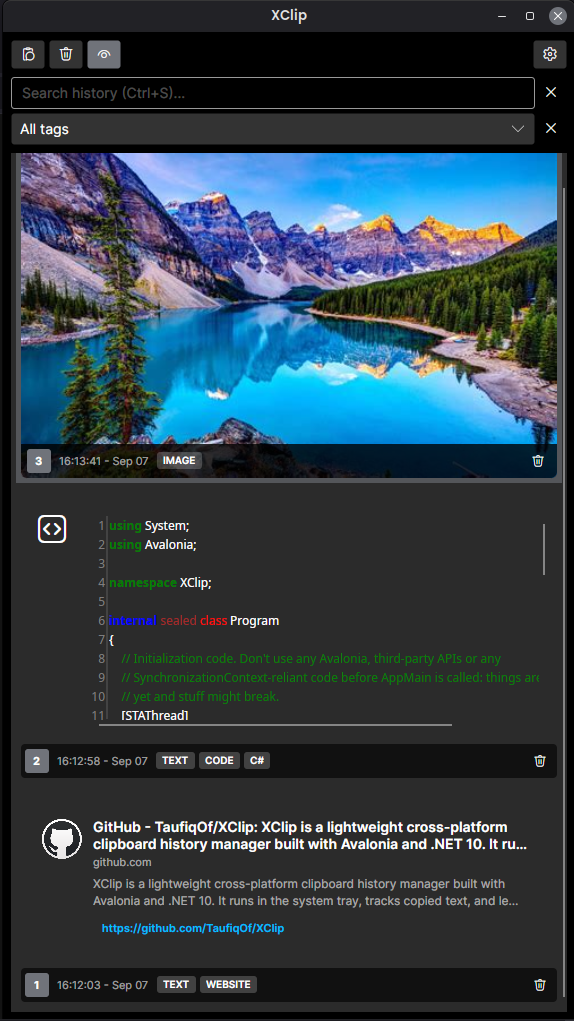
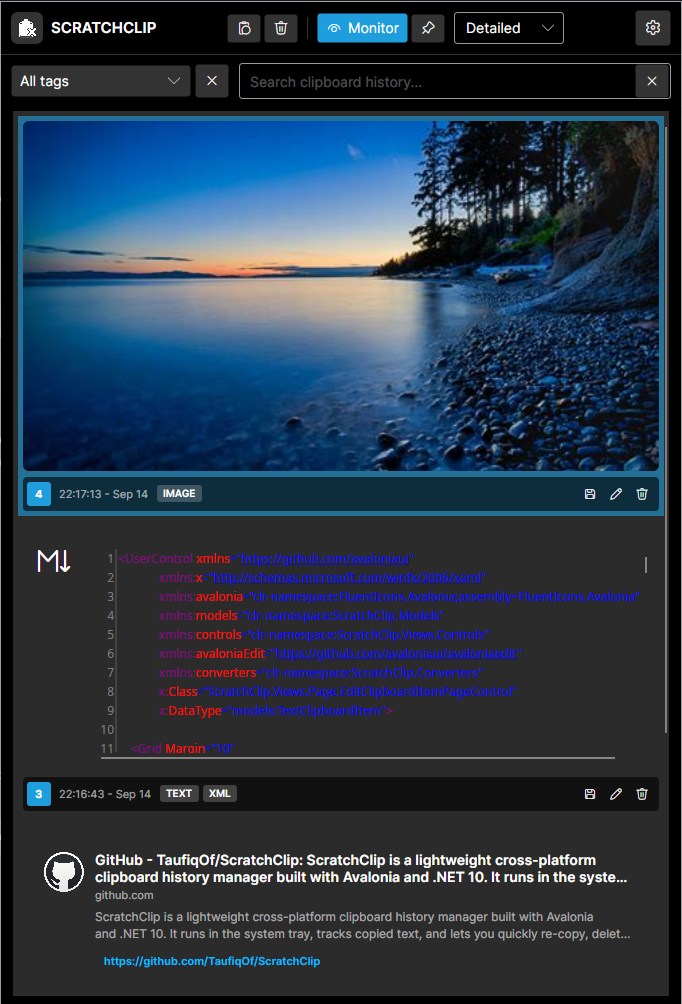
Update README with new security features and bump version to 0.0.27

diff --git a/readme.md b/readme.md
@@ -13,23 +13,48 @@ It runs silently in the system tray, tracks your recent copied items, and lets y
 - **Smart Type Recognition:** Automatically identifies and highlights links, code (programming languages, XML, JSON), and Markdown.
 - **Rich Link Metadata:** Displays previews for web links, including page titles, descriptions, and site icons.
 - **Filtering & Search:** Easily filter history by content type (text, image, link, code) or use **fuzzy search** to find entries quickly.
+- **Persistent History:** Saves clipboard history to an encrypted file for secure access across sessions.
+- **Session Password Protection:** Optionally assign a password to protect clipboard history using password-based encryption.
+- **Right-Click Context Menu:** Quickly copy and paste items from the system tray.
+- **Customizable View:** Choose between a full-featured view or a compact mode with a simple one-line menu view.
 - **Global Hotkey Support:** Show or hide the manager window from anywhere (Default: `Alt + Shift + K`).
 - **Quick Selection:** Press numbers `1–99` to pick visible clipboard entries instantly.
-- **Auto-Paste Integration:** Selecting or hitting `Enter` or `Double Clicking` copies the chosen item and automatically pastes it into your previously active application.
+- **Auto-Paste Integration:** Selecting, pressing `Enter`, or double-clicking copies the chosen item and automatically pastes it into your previously active application.
 - **Tray Management:** Minimizes to the system tray with a right-click menu, dynamic tray icon adaptation for light/dark themes, and startup toggles.
 - **Compact View Mode:** Switch to a minimalistic view that shows only the most recent clipboard entries for quick access.
-- **Detects Password Fields:** Automatically detects password and hides the text.
+- **Password Field Detection:** Automatically detects password fields and hides the text.
+- **Edit & Delete:** Edit or delete clipboard entries directly from the manager.
+- **File & Folder Support:** Supports copying and pasting files and folders, with previews for images and documents.
+
+## 🔐 Security
+
+- **AES-256-GCM Encryption:** Protects clipboard history with confidentiality and tamper detection.
+- **PBKDF2-HMAC-SHA256:** Uses 600,000 iterations for password-based key derivation to increase resistance to brute-force attacks.
+- **Random Per-File Salt & Nonce:** Each encrypted file uses cryptographically random values for key derivation and encryption.
+- **OS Keyring Integration:** Securely stores the passwordless encryption secret in the operating system's keyring.
+- **Password Protection:** User passwords are never stored directly; only a salted PBKDF2 password verifier is stored.
+- **Session Authentication:** When password protection is enabled, the user's password is required to access the encrypted history.
+- **Memory-Only Session Password:** The authenticated password is retained only for the current application session and cleared when the session is locked or logged out.
+- **Tamper Detection:** AES-GCM authentication detects modification or corruption of the encrypted history file.
+- **Device-Bound Passwordless Mode:** When no user password is configured, the encryption secret is stored in the OS keyring, preventing the encrypted history from being decrypted using the file alone.
+
+> **Security Disclaimer:** No security system can guarantee absolute protection. ScratchClip relies on the security of the underlying operating system, .NET runtime, cryptographic libraries, and OS keyring. If an attacker has full control of the running system or the user's account, clipboard data may potentially be accessible while ScratchClip is running or unlocked.
+
 ---
 
 ## 📸 Screenshots
 
-|            Main Interface             |            Light Theme             |
-|:-------------------------------------:|:----------------------------------:|
+|               Main Interface                |            Light Theme             |
+|:-------------------------------------------:|:----------------------------------:|
 | ![ScratchClip main window](Docs/dark-1.png) | ![ScratchClip light theme](Docs/light-1.png) |
 
-|              Compact View               |       Storage(Files and Folders)       |
-|:---------------------------------------:|:--------------------------------------:|
-| ![ScratchClip link preview](Docs/compact.png) | ![ScratchClip light theme](Docs/storage.png) |
+|                 Compact View                 |                  Menu View                  |
+|:--------------------------------------------:|:--------------------------------------------:|
+| ![ScratchClip link preview](Docs/dark-2.png) | ![ScratchClip menu view](Docs/dark-3.png) |
+
+|                     Edit                     |                  Settings                   |
+|:--------------------------------------------:|:-------------------------------------------:|
+| ![ScratchClip edit](Docs/dark-5.png) | ![ScratchClip settings](Docs/dark-4.png) |
 
 ---
 
@@ -71,3 +96,16 @@ Clone the repository and run the application from the root directory:
 cd ScratchClip
 dotnet restore
 dotnet run
+```
+
+## ⚠ Disclaimer
+
+ScratchClip is provided "as is" and without warranty of any kind, express or implied.
+
+The authors and contributors make no guarantees regarding the reliability, availability, security, accuracy, or fitness of ScratchClip for any particular purpose. Use ScratchClip at your own risk.
+
+While ScratchClip includes encryption and other security features, no software can guarantee complete security. Users are responsible for protecting their operating system, user account, passwords, and keyring.
+
+The authors and contributors are not responsible for any loss, corruption, disclosure, or unauthorized access to clipboard data, or for any other direct or indirect damages resulting from the use of ScratchClip.
+
+By using ScratchClip, you acknowledge and accept these limitations.
